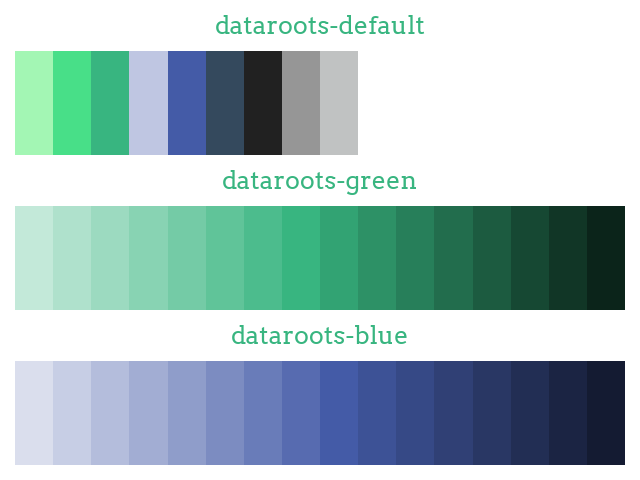
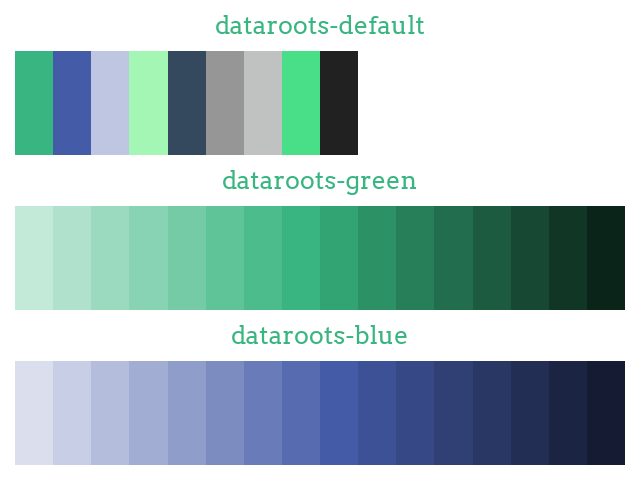
updated palette default to represent colors in correct order

Changed region(s): [[0.0, 0.0938, 0.5625, 0.3438]]

diff --git a/rootsstyle/main.py b/rootsstyle/main.py
@@ -3,7 +3,7 @@
 - defines the optional extra functionalities
 """
 from .fonts import fonts
-from .colors import colors
+from .colors import colors, palettes
 from .utils import is_line_plot, get_dataline_handles, get_linelegend_ypositions
 import matplotlib as mpl
 import matplotlib.pyplot as plt
@@ -36,17 +36,7 @@ style = {
     # ***************************************************************************
     # DATA COLORS
     "axes.prop_cycle": mpl.cycler(
-        color=[
-            colors["green_dark"],
-            colors["blue_dark"],
-            colors["blue_light"],
-            colors["green_light"],
-            colors["blue_navy"],
-            colors["gray"],
-            colors["gray_light"],
-            colors["green_bright"],
-            colors["black"],
-        ],
+        color=palettes['dataroots-default'],
     ),
     # EDGES
     "axes.linewidth": 1.6,

diff --git a/rootsstyle/colors.py b/rootsstyle/colors.py
@@ -11,7 +11,17 @@ colors = {
 }
 
 palettes = {
-    "dataroots-default": list(colors.values()),
+    "dataroots-default": [
+            colors["green_dark"],
+            colors["blue_dark"],
+            colors["blue_light"],
+            colors["green_light"],
+            colors["blue_navy"],
+            colors["gray"],
+            colors["gray_light"],
+            colors["green_bright"],
+            colors["black"],
+    ],
     "dataroots-green": [
         "#C3E9D9",
         "#AFE1CC",
